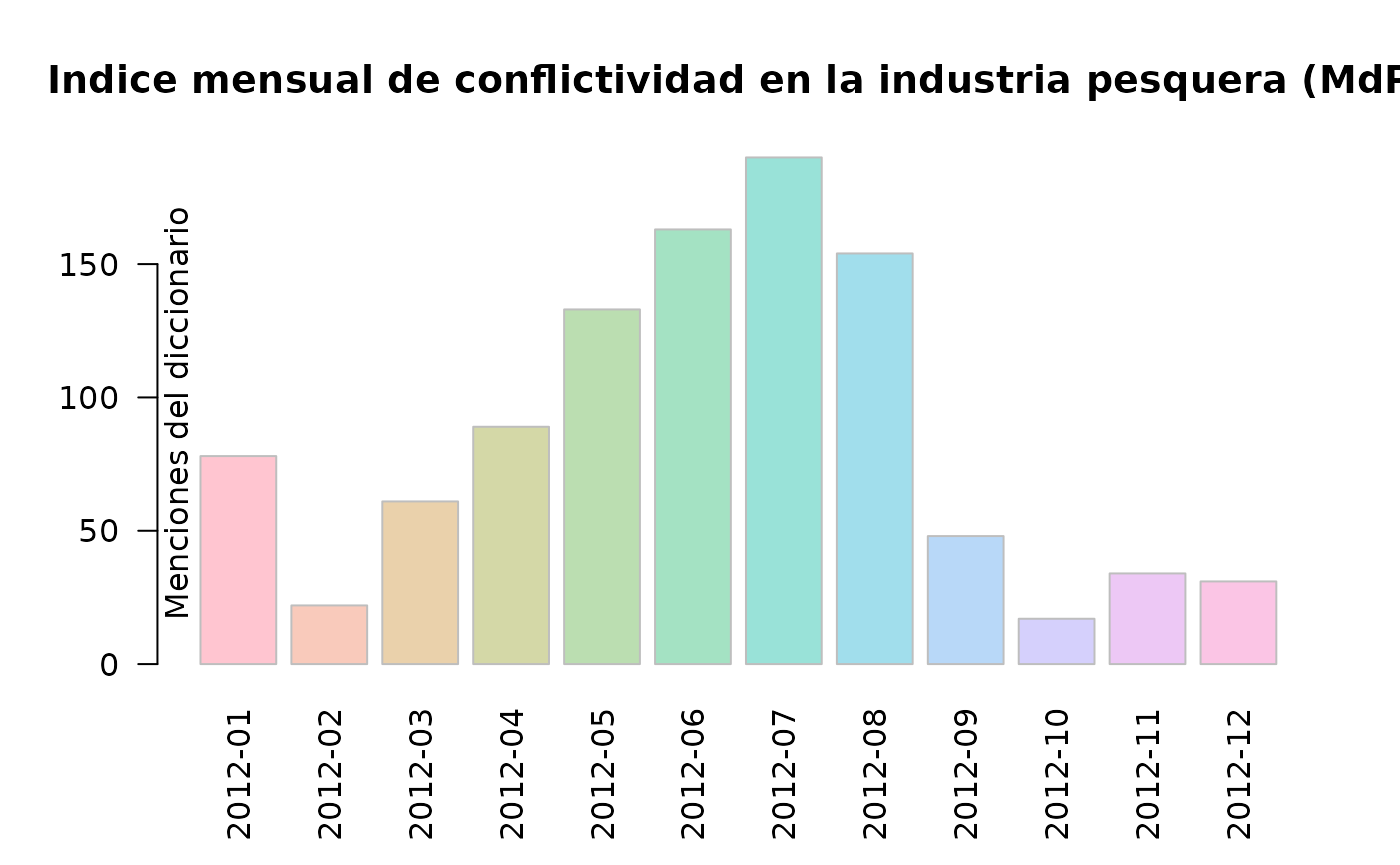
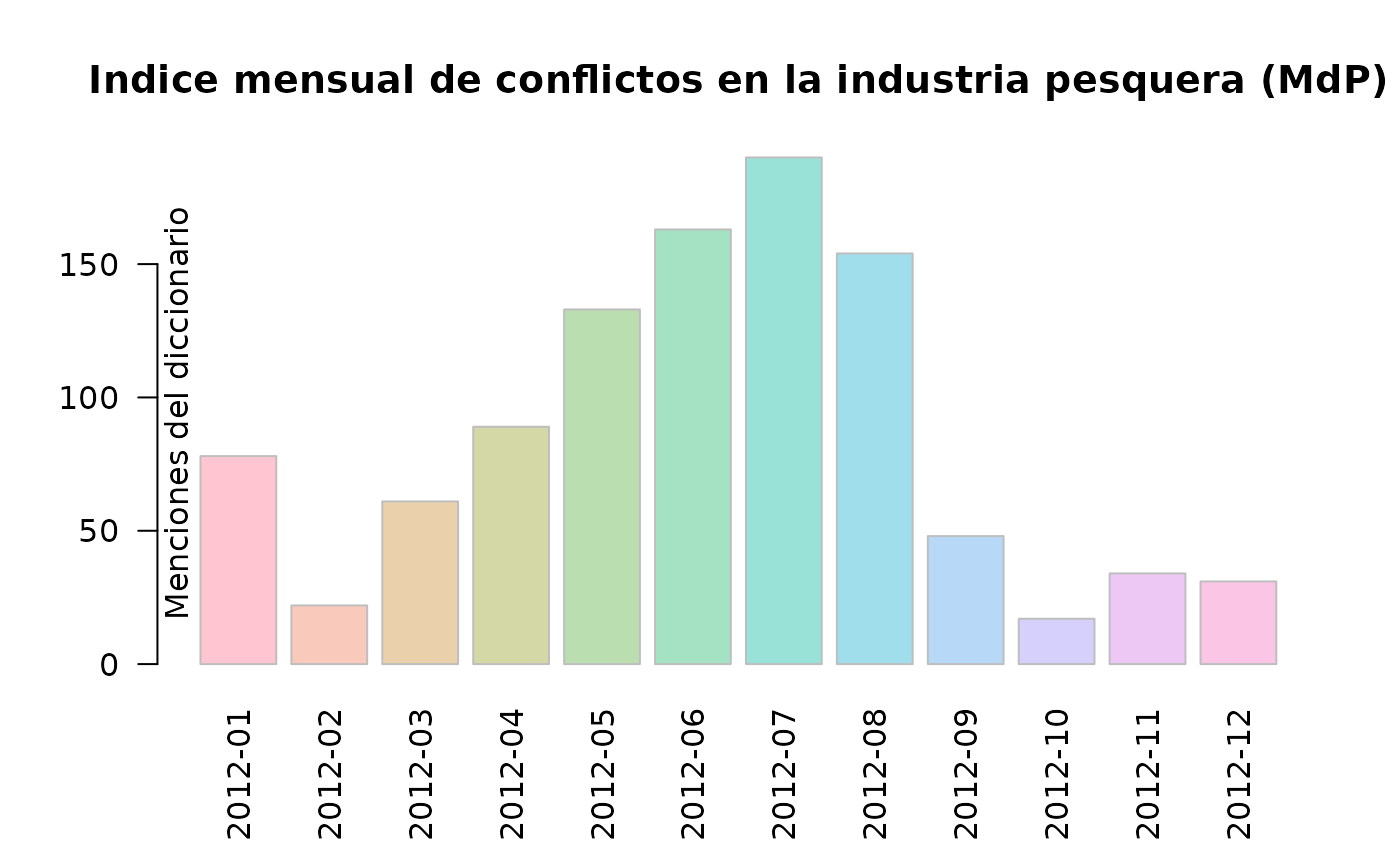
Deploying to gh-pages from @ agusnieto77/ACEP@2fcfafdccad4583877a6f565667fc5529d66e96f 🚀

Changed region(s): [[0.0307, 0.0624, 1.0, 0.1249]]

diff --git a/articles/conflictividad_soip.html b/articles/conflictividad_soip.html
@@ -405,7 +405,7 @@ el más conflictivo de período bajo análisis.</p>
 <span><span class="fu"><a href="../reference/acep_plot_st.html">acep_plot_st</a></span><span class="op">(</span></span>
 <span> <span class="va">conf_gral</span><span class="op">$</span><span class="va">st</span>,</span>
 <span> <span class="va">conf_gral</span><span class="op">$</span><span class="va">frecm</span>,</span>
-<span> t <span class="op">=</span> <span class="st">"Indice mensual de conflictividad en la industria pesquera (MdP)"</span>,</span>
+<span> t <span class="op">=</span> <span class="st">"Indice mensual de conflictos en la industria pesquera (MdP)"</span>,</span>
 <span> ejey <span class="op">=</span> <span class="st">"Menciones del diccionario"</span>,</span>
 <span> etiquetax <span class="op">=</span> <span class="st">"vertical"</span></span>
 <span>             <span class="op">)</span></span></code></pre></div>
